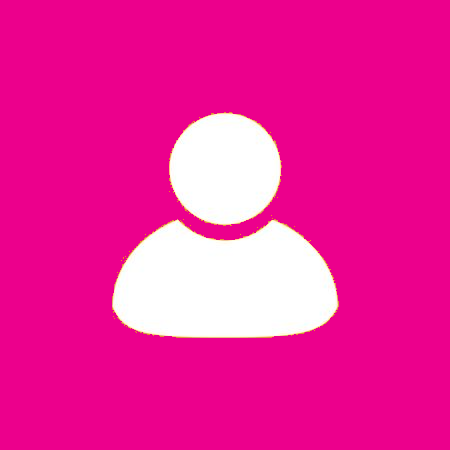
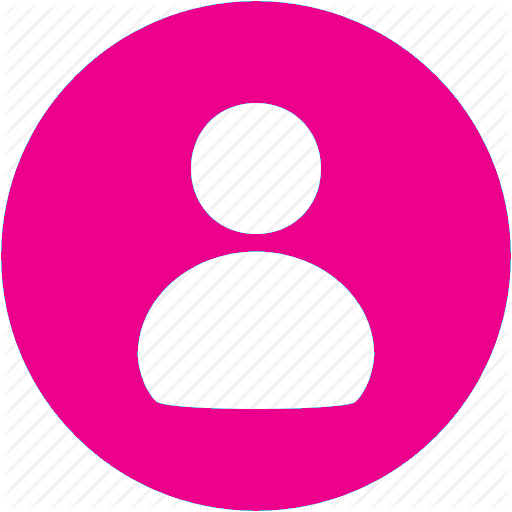
Improve testimonials with image

Changed region(s): [[0.0, 0.0, 1.0, 1.0], [0.2489, 0.1867, 0.7778, 0.8089]]

diff --git a/app/Helpers/RemoteHelper.php b/app/Helpers/RemoteHelper.php
@@ -14,10 +14,8 @@ if(!function_exists('user_img_asset'))
      */
     function user_img_asset($img_file, $extension = Constants::DEFAULT_IMAGE_EXTENSION)
     {
-        // TODO: write back this function for remote access
         $path = ImagePath::USER_DEFAULT_IMAGE_PATH;
-        $public_folder = config('app.folder');
-        return "$public_folder/assets/img/$path/$img_file.$extension";
+        return "assets/img/$path/$img_file.$extension";
     }
 }
 
@@ -32,10 +30,24 @@ if(!function_exists('product_img_asset'))
      */
     function product_img_asset($img_file, $extension = Constants::DEFAULT_IMAGE_EXTENSION)
     {
-        // TODO: write back this function for remote access
-        $public_folder = config('app.folder');
         $path = ImagePath::PRODUCT_DEFAULT_IMAGE_PATH;
-        return "$public_folder/assets/img/$path/$img_file.$extension";
+        return "assets/img/$path/$img_file.$extension";
+    }
+}
+
+if(!function_exists('testimonial_img_path'))
+{
+    /**
+     * Dynamic product image asset file path
+     *
+     * @param $img_file
+     * @param $extension
+     * @return string
+     */
+    function testimonial_img_path($img_file, $extension = Constants::DEFAULT_IMAGE_EXTENSION)
+    {
+        $path = ImagePath::TESTIMONIAL_DEFAULT_IMAGE_PATH;
+        return "assets/img/$path/$img_file.$extension";
     }
 }
 
@@ -50,9 +62,9 @@ if(!function_exists('testimonial_img_asset'))
      */
     function testimonial_img_asset($img_file, $extension = Constants::DEFAULT_IMAGE_EXTENSION)
     {
-        // TODO: write back this function for remote access
-        $public_folder = config('app.folder');
+        $admin_url = config('company.admin');
+        $public_folder = config('app.folder') . "/";
         $path = ImagePath::TESTIMONIAL_DEFAULT_IMAGE_PATH;
-        return "$public_folder/assets/img/$path/$img_file.$extension";
+        return "$admin_url{$public_folder}assets/img/$path/$img_file.$extension";
     }
 }

diff --git a/app/Models/Testimonial.php b/app/Models/Testimonial.php
@@ -47,14 +47,8 @@ class Testimonial extends Model
      * @return string
      */
     public function getImageSrcAttribute() {
-        // Update une avatar with default if avatar file is not found
-        // TODO: find how to check on a remote access
-        if(!Storage::exists(testimonial_img_asset($this->image, $this->image_extension))) {
-            // TODO: return default image, do not insert into database
-            $this->update([
-                'image' => Constants::DEFAULT_IMAGE,
-                'image_extension' => Constants::DEFAULT_IMAGE_EXTENSION,
-            ]);
+        if(!Storage::disk('admin')->exists(testimonial_img_path($this->image, $this->image_extension))) {
+            return img_asset('default');
         }
 
         return testimonial_img_asset($this->image, $this->image_extension);

diff --git a/resources/views/partials/home/testimonials.blade.php b/resources/views/partials/home/testimonials.blade.php
@@ -15,7 +15,7 @@
                 <div class="col-lg-3 d-flex mb-sm-4 ftco-animate">
                     <div class="staff">
                         <div class="img mb-4 text-center">
-                            <img src="{{ img_asset('default') }}" alt="...">
+                            <img src="{{ $testimonial->image_src }}" alt="...">
                         </div>
                         <div class="info">
                             <h3 class="text-center">{{ $testimonial->name }}</h3>

diff --git a/config/filesystems.php b/config/filesystems.php
@@ -65,6 +65,10 @@ return [
             'endpoint' => env('AWS_ENDPOINT'),
         ],
 
+        'admin' => [
+            'driver' => 'local',
+            'root' => env('ADMIN_FOLDER_PATH', '/public_html/subdomains/admin/public'),
+        ],
     ],
 
     /*

diff --git a/config/company.php b/config/company.php
@@ -22,4 +22,6 @@ return [
     'haircuts' =>  env('COMPANY_HAIRCUTS', 18),
     'products' =>  env('COMPANY_PRODUCTS', 13),
     'satisfied' =>  env('COMPANY_SATISFIED', 22),
+
+    'admin' =>  env('ADMIN_URL', 'https://admin.mboacutz.com'),
 ];
